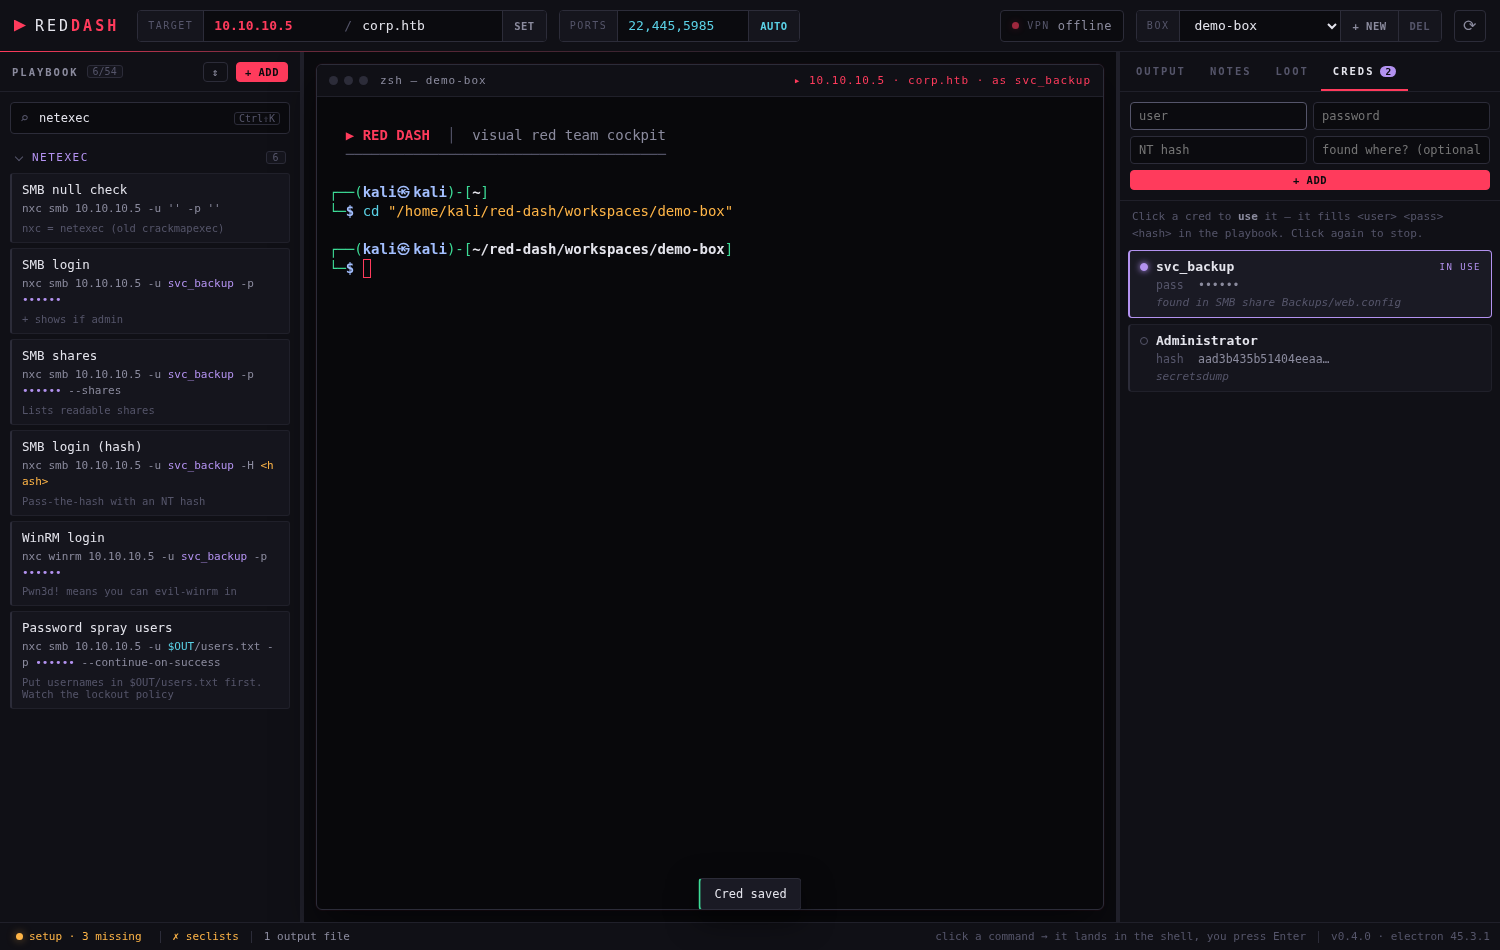
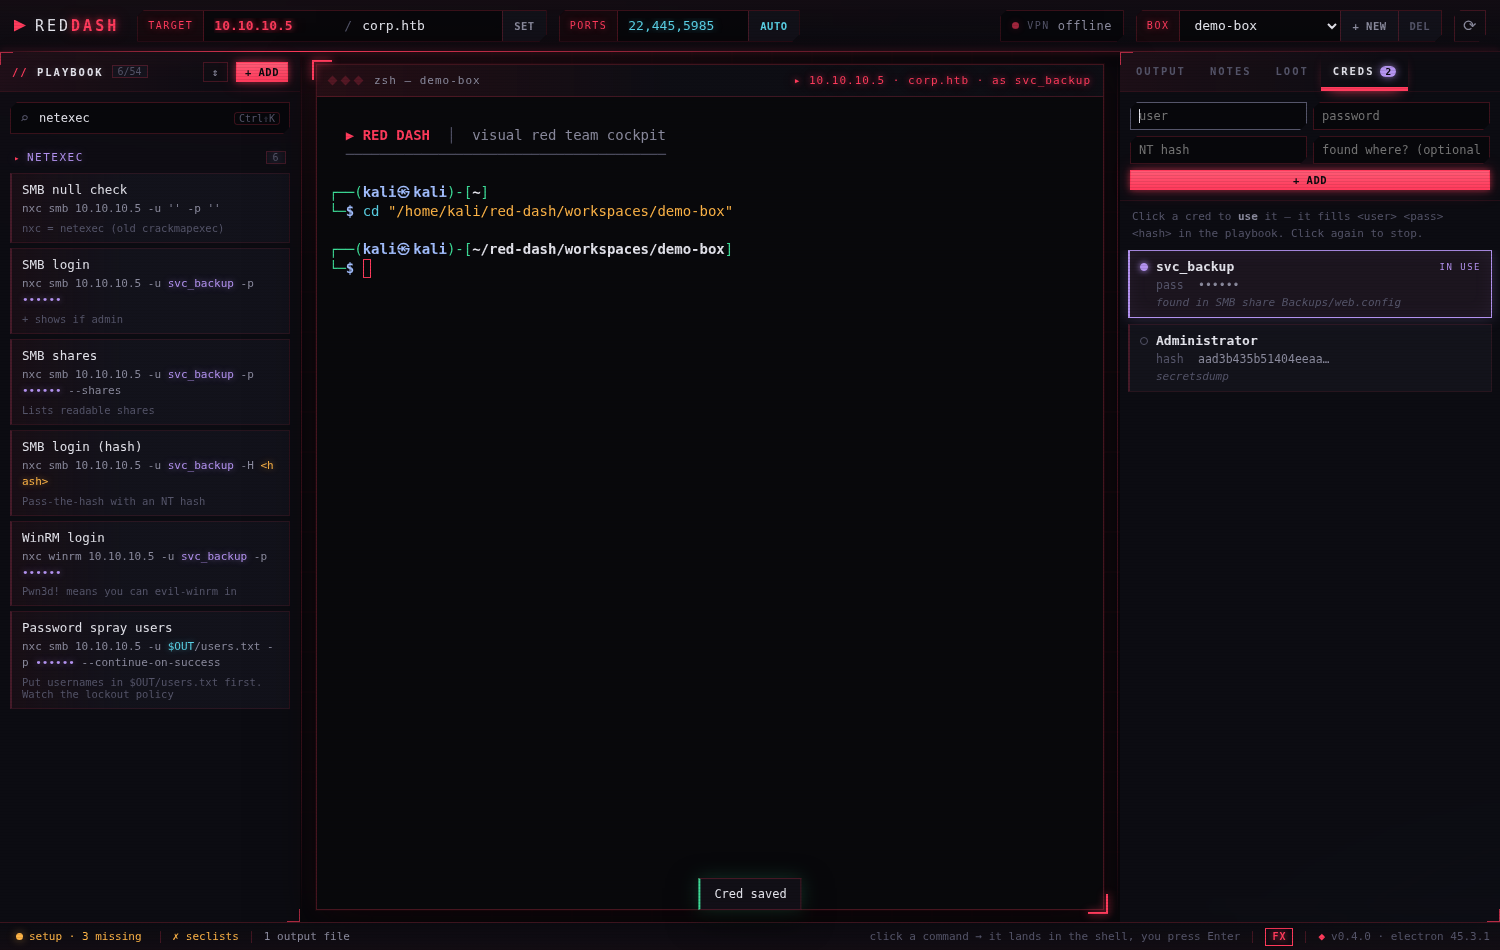
Cyber HUD theme with FX toggle
Neon glow, glass panels, HUD corner brackets, angled inputs, drifting
grid, faint scanlines and a boot-up animation, layered on the base
styles. FX button in the status bar disables effects (saved per user);
prefers-reduced-motion is honoured. README screenshots refreshed.

diff --git a/ui/style.css b/ui/style.css
@@ -449,3 +449,214 @@ body.resizing #terminal { pointer-events: none; }
 .cred-actions { display: none; gap: 4px; margin-top: 6px; padding-left: 16px; }
 .cred:hover .cred-actions { display: flex; }
 .ex-cmd .filled.cred-fill { color: var(--violet); white-space: nowrap; }
+
+/* =====================================================================
+   CYBER HUD THEME
+   Layered on top of the base styles above. Everything decorative lives
+   behind `body:not(.fx-off)` or in pseudo-elements, so the FX toggle in
+   the status bar (and prefers-reduced-motion) can switch it all off.
+   ===================================================================== */
+:root {
+  --bg: #07070b;
+  --panel: rgba(14, 14, 21, .78);
+  --panel2: rgba(22, 22, 32, .72);
+  --raised: rgba(32, 24, 34, .85);
+  --line: rgba(255, 59, 92, .10);
+  --line2: rgba(255, 59, 92, .22);
+  --neon: 0 0 6px rgba(255, 59, 92, .55), 0 0 18px rgba(255, 59, 92, .25);
+  --neon-text: 0 0 6px rgba(255, 59, 92, .7), 0 0 16px rgba(255, 59, 92, .35);
+  --cut: 7px;   /* size of the angled corners */
+}
+
+/* --- backdrop: red haze + drifting grid --- */
+body {
+  background:
+    radial-gradient(1200px 600px at 15% -10%, rgba(255, 59, 92, .10), transparent 60%),
+    radial-gradient(900px 500px at 110% 110%, rgba(90, 209, 230, .06), transparent 60%),
+    var(--bg);
+}
+body::before {
+  content: ''; position: fixed; inset: -40px; z-index: 0; pointer-events: none;
+  background-image:
+    linear-gradient(rgba(255, 59, 92, .07) 1px, transparent 1px),
+    linear-gradient(90deg, rgba(255, 59, 92, .07) 1px, transparent 1px);
+  background-size: 40px 40px;
+  mask-image: radial-gradient(ellipse at center, #000 30%, transparent 85%);
+  animation: grid-drift 40s linear infinite;
+}
+@keyframes grid-drift { to { transform: translate(40px, 40px); } }
+/* CRT scanlines over everything — very faint so text stays crisp */
+body::after {
+  content: ''; position: fixed; inset: 0; z-index: 100; pointer-events: none;
+  background: repeating-linear-gradient(0deg, rgba(0, 0, 0, .16) 0 1px, transparent 1px 3px);
+  mix-blend-mode: multiply; opacity: .55;
+}
+#topbar, #middle, #statusbar { position: relative; z-index: 1; }
+
+/* --- glass panels --- */
+#topbar, .panel, #statusbar {
+  backdrop-filter: blur(10px) saturate(130%);
+}
+#topbar { background: linear-gradient(180deg, rgba(20, 14, 20, .9), rgba(12, 12, 18, .82)); }
+#topbar::after {
+  height: 1px; bottom: -1px;
+  background: linear-gradient(90deg, transparent, var(--red) 20%, var(--red-glow) 50%, transparent);
+  box-shadow: var(--neon);
+}
+/* a light sweep travelling along the top bar's edge */
+#topbar::before {
+  content: ''; position: absolute; bottom: -1px; height: 1px; width: 180px; left: -200px;
+  background: linear-gradient(90deg, transparent, #fff, transparent); opacity: .8;
+  animation: sweep 6s ease-in-out infinite;
+}
+@keyframes sweep { 0% { left: -200px; } 60%, 100% { left: 100%; } }
+
+/* HUD corner brackets on the side panels */
+.panel { position: relative; }
+.panel::before, .panel::after {
+  content: ''; position: absolute; width: 12px; height: 12px; pointer-events: none; z-index: 2;
+  border: 0 solid var(--red); opacity: .7;
+}
+.panel::before { top: 0; left: 0; border-top-width: 1px; border-left-width: 1px; }
+.panel::after { bottom: 0; right: 0; border-bottom-width: 1px; border-right-width: 1px; }
+.resizer { background: transparent; position: relative; }
+.resizer::after {
+  content: ''; position: absolute; top: 0; bottom: 0; left: 1px; width: 1px;
+  background: linear-gradient(180deg, transparent, var(--line2) 15%, var(--line2) 85%, transparent);
+}
+.resizer:hover::after, .resizer.dragging::after { background: var(--red); box-shadow: var(--neon); }
+.resizer:hover, .resizer.dragging { background: transparent; }
+
+/* --- brand --- */
+.brand-text { text-shadow: 0 0 10px rgba(255, 255, 255, .15); }
+.brand-text b { text-shadow: var(--neon-text); animation: flicker 7s infinite; }
+.brand-mark { animation: mark-pulse 2.4s ease-in-out infinite; }
+@keyframes flicker {
+  0%, 92%, 100% { opacity: 1; }
+  93% { opacity: .4; } 94% { opacity: 1; } 96% { opacity: .6; } 97% { opacity: 1; }
+}
+@keyframes mark-pulse { 50% { filter: drop-shadow(0 0 12px var(--red)); } }
+
+/* --- angled corners on segments, buttons, cards --- */
+/* (clip-path also clips box-shadow, so only things that don't glow outward get cut corners) */
+.seg, .pill, .search, .icon-btn, .cred-form input {
+  border-radius: 0;
+  clip-path: polygon(var(--cut) 0, 100% 0, 100% calc(100% - var(--cut)), calc(100% - var(--cut)) 100%, 0 100%, 0 var(--cut));
+}
+.seg { background: rgba(5, 5, 9, .7); }
+.seg:focus-within { border-color: var(--red); box-shadow: inset 0 0 12px rgba(255, 59, 92, .12); }
+.seg-label { background: rgba(255, 59, 92, .06); color: var(--red); text-shadow: 0 0 6px rgba(255, 59, 92, .5); }
+#in-target { text-shadow: var(--neon-text); }
+#in-ports { text-shadow: 0 0 8px rgba(90, 209, 230, .5); }
+
+button:not(.ghost, .danger, .tab, .seg-btn, .pill, .icon-btn, #btn-setup-toggle, #btn-fx) {
+  background: linear-gradient(180deg, #ff5a75, var(--red));
+  box-shadow: var(--neon);
+}
+button:not(.ghost, .danger, .tab, .seg-btn, .pill, .icon-btn, #btn-setup-toggle, #btn-fx):hover {
+  filter: brightness(1.15); box-shadow: 0 0 10px var(--red), 0 0 28px rgba(255, 59, 92, .45);
+}
+
+button:not(.tab), .ex, .cred, .modal-box, #toast, #setup-dropdown, .chip, .count { border-radius: 0; }
+
+/* --- panel heads --- */
+.panel-head { background: linear-gradient(90deg, rgba(255, 59, 92, .07), transparent 70%); }
+.panel-title { color: var(--text); text-shadow: 0 0 8px rgba(255, 255, 255, .2); }
+.panel-title::before { content: '// '; color: var(--red); }
+
+/* --- playbook --- */
+.tool-title { text-shadow: 0 0 8px rgba(179, 146, 240, .45); }
+.tool-title::before { content: '▸'; color: var(--red); font-size: 9px; margin-right: -2px; }
+.tool-title .caret { display: none; }
+.tool-group.collapsed .tool-title::before { content: '▹'; }
+.ex {
+  background: linear-gradient(90deg, rgba(255, 59, 92, .05), rgba(22, 22, 32, .7) 40%);
+  transition: transform .14s ease, box-shadow .14s ease, border-color .14s, background .14s;
+}
+.ex:hover {
+  transform: translateX(3px);
+  background: linear-gradient(90deg, rgba(255, 59, 92, .14), rgba(32, 24, 34, .85) 55%);
+  box-shadow: -4px 0 14px -2px rgba(255, 59, 92, .55), inset 0 0 18px rgba(255, 59, 92, .06);
+}
+.ex.sent { box-shadow: -3px 0 14px rgba(61, 220, 151, .5); }
+.ex-cmd .var { text-shadow: 0 0 6px rgba(255, 181, 71, .5); }
+.ex-cmd .filled { text-shadow: 0 0 6px rgba(90, 209, 230, .45); }
+.ex-cmd .filled.cred-fill { text-shadow: 0 0 6px rgba(179, 146, 240, .55); }
+.search:focus-within { box-shadow: 0 0 12px rgba(255, 59, 92, .2); }
+
+/* --- terminal: glowing frame with HUD corners --- */
+#center { background: transparent; position: relative; }
+#term-frame {
+  position: relative; border-radius: 0; overflow: visible;
+  border-color: rgba(255, 59, 92, .25);
+  box-shadow: 0 0 0 1px rgba(255, 59, 92, .05), 0 0 30px rgba(255, 59, 92, .07), 0 20px 50px rgba(0, 0, 0, .6);
+  transition: box-shadow .25s, border-color .25s;
+}
+#term-frame:focus-within {
+  border-color: rgba(255, 59, 92, .55);
+  box-shadow: 0 0 0 1px rgba(255, 59, 92, .15), 0 0 40px rgba(255, 59, 92, .18), 0 20px 50px rgba(0, 0, 0, .6);
+}
+#term-frame::before, #term-frame::after {
+  content: ''; position: absolute; width: 18px; height: 18px; pointer-events: none;
+  border: 0 solid var(--red); filter: drop-shadow(0 0 4px var(--red));
+}
+#term-frame::before { top: -5px; left: -5px; border-top-width: 2px; border-left-width: 2px; }
+#term-frame::after { bottom: -5px; right: -5px; border-bottom-width: 2px; border-right-width: 2px; }
+#term-header {
+  background: linear-gradient(90deg, rgba(255, 59, 92, .12), rgba(14, 14, 21, .9) 45%);
+  border-bottom-color: rgba(255, 59, 92, .2);
+}
+.term-dots i { border-radius: 0; transform: rotate(45deg); width: 7px; height: 7px; }
+.term-target { text-shadow: var(--neon-text); }
+#terminal { overflow: hidden; }
+
+/* --- right panel --- */
+.tab.active { text-shadow: 0 0 8px rgba(255, 255, 255, .35); box-shadow: inset 0 -2px 0 var(--red), 0 6px 14px -8px var(--red); }
+.out-file.active { box-shadow: inset 2px 0 0 var(--red), -2px 0 10px rgba(255, 59, 92, .35); }
+.nmap-host { text-shadow: var(--neon-text); }
+.nmap-host::before { animation: mark-pulse 1.6s infinite; }
+.out-table tr { transition: background .12s; }
+.out-table tr:hover td { background: rgba(255, 59, 92, .06); }
+.out-table td.port { text-shadow: 0 0 6px rgba(90, 209, 230, .45); }
+.note-editor { background: transparent; }
+.cred.active { box-shadow: 0 0 14px rgba(179, 146, 240, .25), inset 0 0 20px rgba(179, 146, 240, .06); }
+.tab-count { box-shadow: 0 0 8px rgba(179, 146, 240, .7); }
+
+/* --- status bar --- */
+#statusbar {
+  background: linear-gradient(0deg, rgba(20, 14, 20, .92), rgba(12, 12, 18, .82));
+  border-top: 1px solid rgba(255, 59, 92, .2);
+}
+#sb-version::before { content: '◆ '; color: var(--red); }
+#btn-fx { background: transparent; border: 1px solid var(--line2); color: var(--dim); padding: 0 6px; height: 18px; font-size: 10px; letter-spacing: 1px; font-weight: 700; }
+#btn-fx:hover { color: var(--text); filter: none; }
+#btn-fx.on { color: var(--red); border-color: var(--red); text-shadow: var(--neon-text); }
+
+/* --- popups --- */
+.modal { background: rgba(4, 4, 8, .6); backdrop-filter: blur(6px); }
+.modal-box { background: rgba(16, 14, 22, .92); box-shadow: 0 0 40px rgba(255, 59, 92, .15), 0 24px 60px rgba(0, 0, 0, .6); }
+.modal-box h3::before { content: '◢ '; color: var(--red); text-shadow: var(--neon-text); }
+#toast { background: rgba(18, 16, 24, .92); backdrop-filter: blur(8px); box-shadow: 0 0 18px rgba(61, 220, 151, .2), 0 10px 30px rgba(0, 0, 0, .5); }
+
+/* --- boot-up: panels slide in once on launch --- */
+#topbar { animation: boot-down .5s ease-out both; }
+#left { animation: boot-in-l .55s .1s ease-out both; }
+#center { animation: boot-fade .6s .2s ease-out both; }
+#right { animation: boot-in-r .55s .15s ease-out both; }
+#statusbar { animation: boot-up .5s .25s ease-out both; }
+@keyframes boot-down { from { transform: translateY(-100%); opacity: 0; } }
+@keyframes boot-up { from { transform: translateY(100%); opacity: 0; } }
+@keyframes boot-in-l { from { transform: translateX(-24px); opacity: 0; } }
+@keyframes boot-in-r { from { transform: translateX(24px); opacity: 0; } }
+@keyframes boot-fade { from { opacity: 0; filter: blur(4px); } }
+
+::-webkit-scrollbar-thumb { background: rgba(255, 59, 92, .25); border-radius: 0; }
+::-webkit-scrollbar-thumb:hover { background: var(--red); }
+
+/* --- FX off (status bar toggle) or reduced motion: keep the look, drop the effects --- */
+body.fx-off::before, body.fx-off::after, body.fx-off #topbar::before { display: none; }
+body.fx-off *, body.fx-off *::before, body.fx-off *::after { animation: none !important; transition: none !important; }
+body.fx-off #topbar, body.fx-off .panel, body.fx-off #statusbar, body.fx-off #toast, body.fx-off .modal { backdrop-filter: none; }
+@media (prefers-reduced-motion: reduce) {
+  *, *::before, *::after { animation: none !important; transition: none !important; }
+}

diff --git a/ui/renderer.js b/ui/renderer.js
@@ -933,6 +933,20 @@ function addCred() {
 $('cred-add').onclick = addCred
 credInputs.forEach(i => i.addEventListener('keydown', (e) => { if (e.key === 'Enter') addCred() }))
 
+// ---------- FX (glow / scanlines / motion) ----------
+function applyFx(on) {
+  document.body.classList.toggle('fx-off', !on)
+  $('btn-fx').classList.toggle('on', on)
+  $('btn-fx').textContent = on ? 'FX' : 'FX off'
+}
+applyFx(prefs.get('fx', true))
+$('btn-fx').onclick = () => {
+  const on = document.body.classList.contains('fx-off')
+  prefs.set('fx', on)
+  applyFx(on)
+  toast(on ? 'Effects on' : 'Effects off')
+}
+
 // ---------- KEYBOARD ----------
 document.addEventListener('keydown', (e) => {
   // plain Ctrl+K is kill-line in the shell, so the shortcut needs Shift

diff --git a/ui/index.html b/ui/index.html
@@ -149,6 +149,8 @@
     <span class="spacer"></span>
     <span class="sb-item faint">click a command → it lands in the shell, you press Enter</span>
     <span class="sb-sep"></span>
+    <button id="btn-fx" class="on" title="Glow, scanlines and motion — turn off if it feels slow or distracting">FX</button>
+    <span class="sb-sep"></span>
     <span id="sb-version" class="sb-item faint"></span>
   </footer>
 

diff --git a/CHANGELOG.md b/CHANGELOG.md
@@ -3,6 +3,7 @@
 ## 0.4.0
 
 ### Added
+- **Cyber HUD look** — neon glow, glass panels, HUD corner brackets, angled inputs, drifting grid backdrop, faint CRT scanlines, boot-up animation. **FX** button in the status bar switches the effects off (remembered); `prefers-reduced-motion` is respected.
 - **Ports bar** — open TCP ports from the box's nmap XML output fill `{PORTS}` automatically and update live while a scan runs. Type your own list to override; **AUTO** switches back.
 - **Creds tab** — store user / password / NT hash / note per box. Click a cred to put it in use: `<user>` `<pass>` `<hash>` fill across the playbook, and the terminal header shows who you are acting as.
   - Passwords are masked in the playbook and cred list; values are shell-quoted when inserted, so special characters (`$`, `'`, `` ` ``, spaces) arrive intact.

diff --git a/README.md b/README.md
@@ -29,6 +29,7 @@ Runs on any Linux distro. Install hints adapt to your package manager (pacman, a
 - Ports bar — open ports from your nmap scans fill `{PORTS}` automatically (type your own to override, AUTO to go back)
 - Creds tab — save users, passwords and NT hashes per box; click one to fill `<user>` `<pass>` `<hash>` across the playbook. Passwords are masked on screen and shell-quoted when sent
 - Notes + Loot tabs — per box, autosaved to disk (Ctrl+S to save now)
+- Cyber HUD look — glow, glass panels, scanlines; the FX button in the status bar turns effects off
 - Resizable side panels — drag the dividers, double-click to reset
 - Workspaces — each box kept separate (output, notes, loot)
 - Setup check (status bar) — finds your tools and SecLists, shows install commands for what's missing, clears itself as you install
